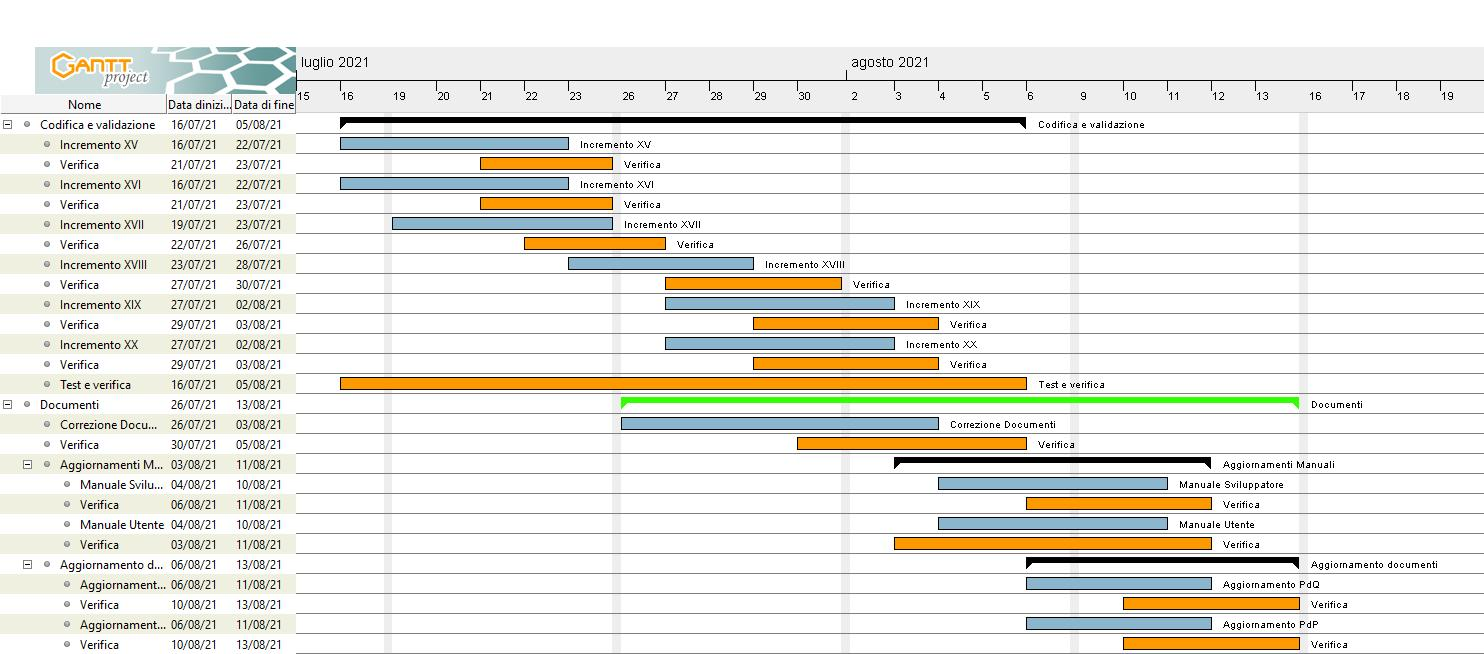
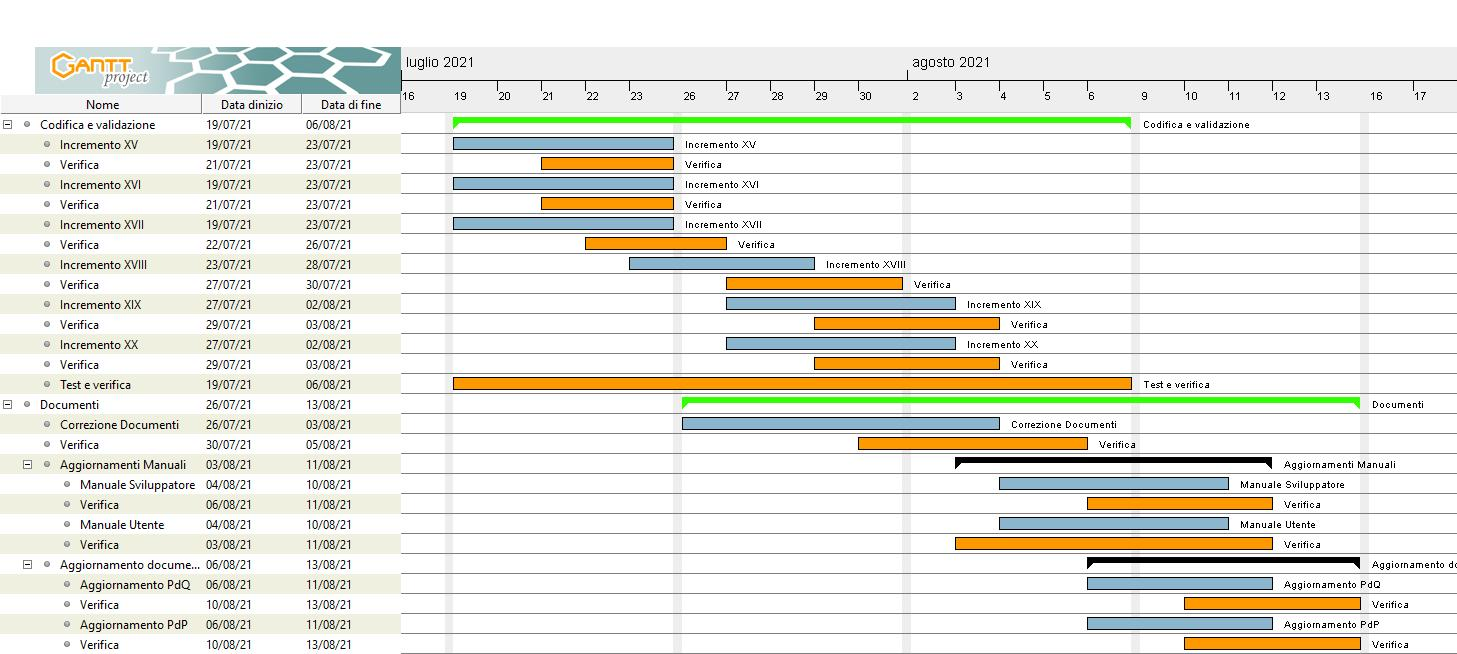
modificate date

diff --git a/esterni/piano_di_progetto/src/4_pianificazione.tex b/esterni/piano_di_progetto/src/4_pianificazione.tex
@@ -145,7 +145,7 @@ Vengono stabiliti i seguenti obiettivi:
 \subsection{Progettazione e codifica di dettaglio}%
 \label{sub:prog_dett}
 
-Periodo: dal 2021-03-10 al 2021-07-15.\\ \\
+Periodo: dal 2021-03-10 al 2021-07-17.\\ \\
 Inizialmente in questa fase si era previsto di proseguire il software realizzato in precedenza, tuttavia si è ritenuto opportuno ripartire da zero e realizzare prima un'architettura 
 base che aiutasse successivamente nella programmazione. 
 In questa fase si realizza la presentazione per la Revisione di Progettazione, stimata per giorno 2021-03-17, e si procede subito con la modifica di alcuni documenti quali
@@ -277,7 +277,7 @@ milestones successiva.\\
 
 \subsection{Validazione e Collaudo}%
 \label{sub:valid_coll}
-Periodo: 2021-07-16 al 2021-08-15 \\ \\ 
+Periodo: 2021-07-19 al 2021-08-15 \\ \\ 
 Questa fase terminerà con la \textsc{Revisione di Accettazione}. In questo periodo unico verranno svolte le seguenti attività:
 
 \begin{itemize}
